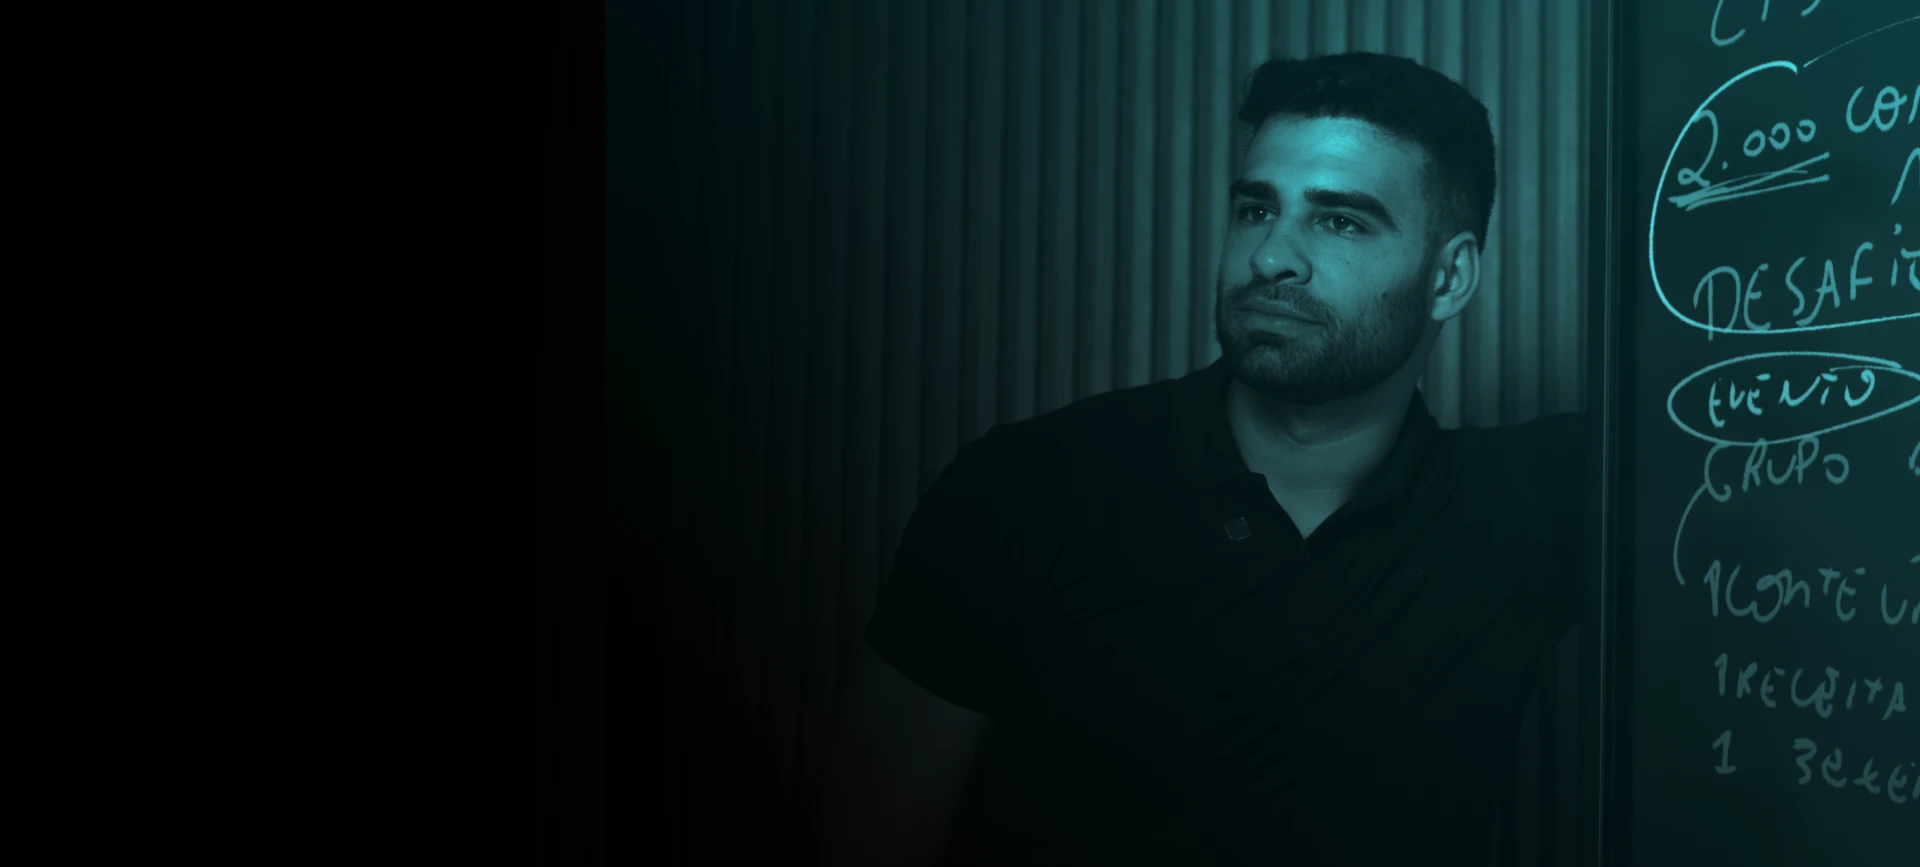
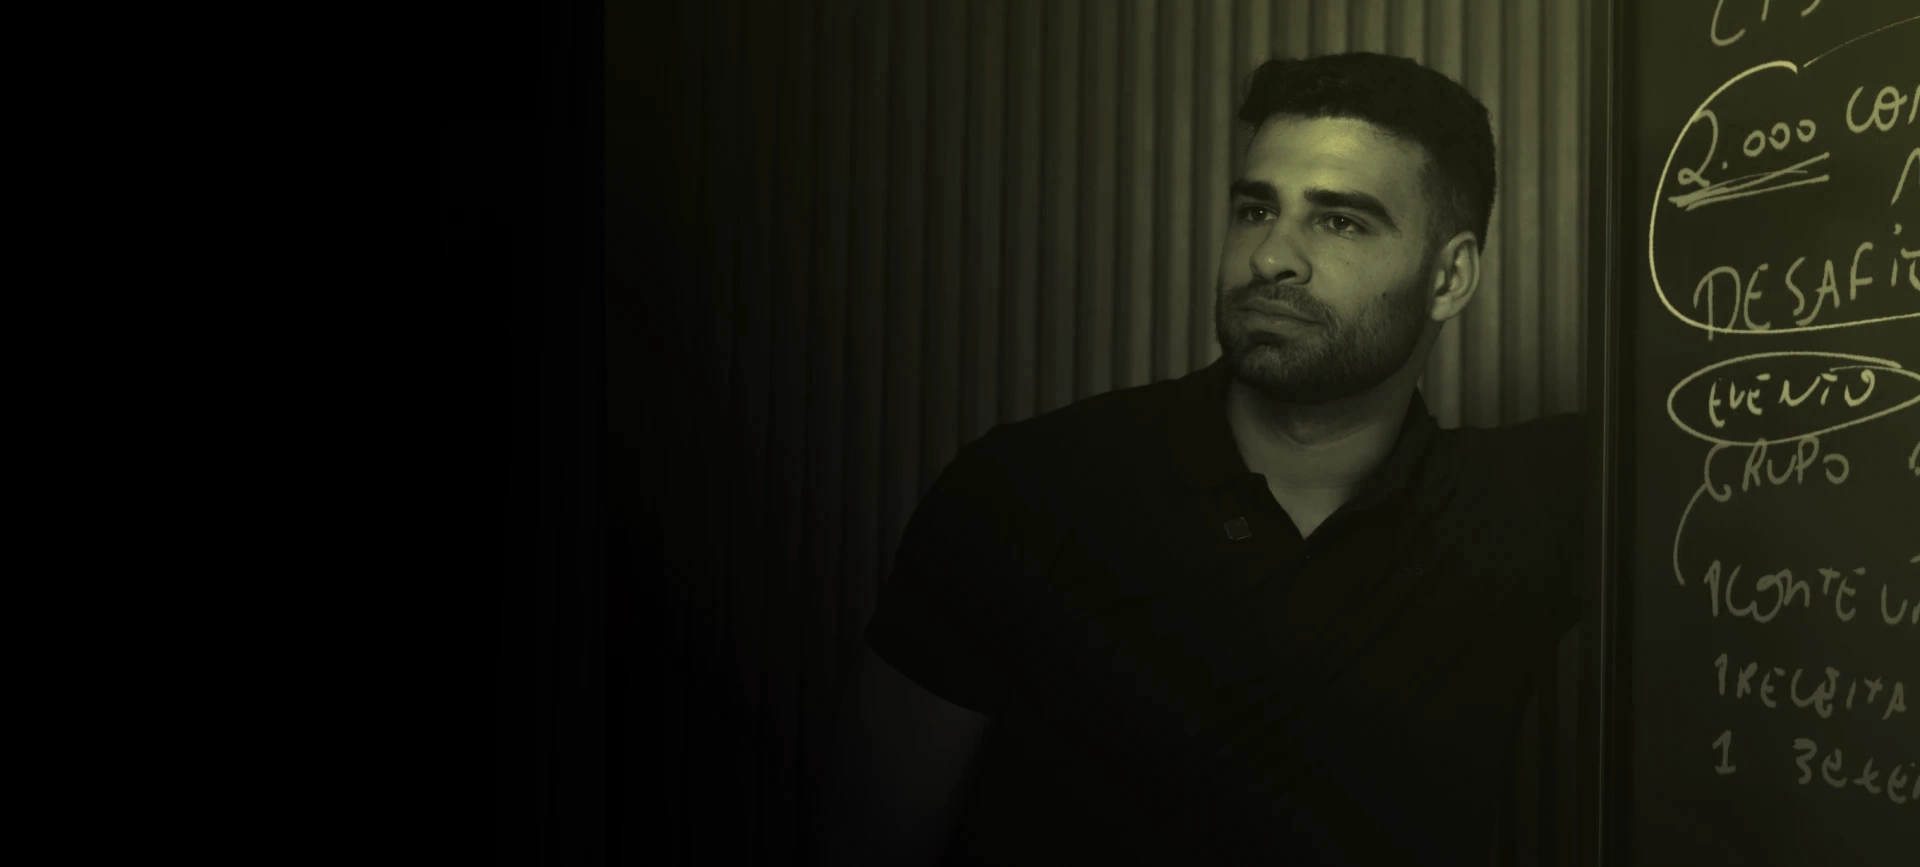
subindo mais coisa

Changed region(s): [[0.5312, 0.0, 1.0, 0.7163], [0.9062, 0.7474, 1.0, 0.9343], [0.625, 0.4671, 0.7188, 0.6228]]

diff --git a/index.html b/index.html
@@ -196,11 +196,9 @@
                         <div class="elementor-image-box-wrapper">
                             <div class="elementor-image-box-content">
                                 <h3 class="elementor-image-box-title">
-                                    <deg2>4 horas!</deg2> É somente esse tempo que eu preciso para te entregar meu plano
-                                    e te mostrar…
+                                    <deg2>Avance agora!</deg2> Vamos apresentar tudo sobre a alta performance
                                 </h3>
-                                <p class="elementor-image-box-description">O <deg2>sistema de 03 etapas</deg2> que eu
-                                    aplicaria para levantar 10 mil reais ainda esse mês.</p>
+                                <p class="elementor-image-box-description">A alta performance é uma <deg2>ferramenta que todos podemos atingir</deg2>, mas você sabe como?</p>
                             </div>
                         </div>
                     </div>
@@ -210,9 +208,7 @@
                     <div class="elementor-widget-container">
                         <div class="elementor-image-box-wrapper">
                             <div class="elementor-image-box-content">
-                                <p class="elementor-image-box-description">Se você é uma pessoa que fatura menos de
-                                    R$10.000 por mês, essa página apareceu para você no momento certo e eu vou te
-                                    explicar o porquê.&nbsp;
+                                <p class="elementor-image-box-description">Descubra como você pode atingir o próximo seu nível naquilo que você quiser ser o melhor, apenas conseguindo o conteúdo necessário para ser alguém de alta performance
                                     <br><br>
                                     A maioria dos brasileiros não vive a vida que gostaria.&nbsp;
                                     <br><br>
@@ -400,8 +396,7 @@
                     <div class="elementor-widget-container">
                         <div class="elementor-image-box-wrapper">
                             <div class="elementor-image-box-content">
-                                <h3 class="elementor-image-box-title">Aqui está o que você vai aprender durante a
-                                    masterclass <deg2>Start Digital:</deg2>
+                                <h3 class="elementor-image-box-title">Aqui está o que você vai aprender adquirindo o pacote completo da <deg2>Alta Performance:</deg2>
                                 </h3>
                             </div>
                         </div>
@@ -432,7 +427,7 @@
                                     </div>
                                     <div class="elementor-icon-box-content">
                                         <p class="elementor-icon-box-description">
-                                            Como iniciar no mercado <deg2>mais promissor</deg2> de todos.
+                                            Como performar em <deg2>qualquer área</deg2> da sua vida.
                                         </p>
                                     </div>
                                 </div>
@@ -465,7 +460,7 @@
                                     </div>
                                     <div class="elementor-icon-box-content">
                                         <p class="elementor-icon-box-description">
-                                            Quais são as estratégias que eu utilizaria para <deg2>levantar pelo menos R$ 10.000 no mês.</deg2>
+                                            Aprenda a definir metas e objetivos <deg2>garantindo sucesso em todos eles</deg2>
                                         </p>
                                     </div>
                                 </div>
@@ -498,8 +493,7 @@
                                     </div>
                                     <div class="elementor-icon-box-content">
                                         <p class="elementor-icon-box-description">
-                                            Como aplicar isso todos os meses do ano para <deg2>ter uma renda que venha
-                                                100% do mercado digital.</deg2>
+                                            Desenvolvimento do seu Networking e habilidades de Liderença <deg2>tenha o poder da influência</deg2>
                                         </p>
                                     </div>
                                 </div>
@@ -712,92 +706,7 @@
                 </div>
             </div>
         </div>
-        <div class="elementor-element elementor-element-ffdc160 e-flex e-con-boxed e-con e-parent" data-id="ffdc160"
-            data-element_type="container" data-settings="{&quot;background_background&quot;:&quot;classic&quot;}">
-            <div class="e-con-inner">
-                <div class="elementor-element elementor-element-1af5677 e-con-full e-flex e-con e-child"
-                    data-id="1af5677" data-element_type="container"
-                    data-settings="{&quot;background_background&quot;:&quot;gradient&quot;}">
-                    <div class="elementor-element elementor-element-dcaa2d3 elementor-widget elementor-widget-heading"
-                        data-id="dcaa2d3" data-element_type="widget" data-widget_type="heading.default">
-                        <div class="elementor-widget-container">
-                            <h2 class="elementor-heading-title elementor-size-default">DESCONTO ESPECIAL</h2>
-                        </div>
-                    </div>
-                    <div class="elementor-element elementor-element-e81df89 elementor-widget__width-inherit elementor-position-top elementor-widget elementor-widget-image-box"
-                        data-id="e81df89" data-element_type="widget" data-widget_type="image-box.default">
-                        <div class="elementor-widget-container">
-                            <div class="elementor-image-box-wrapper">
-                                <figure class="elementor-image-box-img"><img fetchpriority="high" decoding="async"
-                                        width="599" height="148" src="assets/images_elements/logostardigital_1.png"
-                                        class="attachment-full size-full wp-image-10379" alt=""
-                                        srcset="assets/images_elements/logostardigital_1.png 599w, assets/images_elements/logostardigital_1-300x74.png 300w"
-                                        sizes="(max-width: 599px) 100vw, 599px"></figure>
-                            </div>
-                        </div>
-                    </div>
-                    <div class="elementor-element elementor-element-91721ce elementor-widget__width-inherit elementor-widget elementor-widget-image-box"
-                        data-id="91721ce" data-element_type="widget" data-widget_type="image-box.default">
-                        <div class="elementor-widget-container">
-                            <div class="elementor-image-box-wrapper">
-                                <div class="elementor-image-box-content">
-                                    <h3 class="elementor-image-box-title">Adquira o seu ingresso para o Start Digital
-                                        agora e ative o <deg2>DESCONTO ESPECIAL:</deg2>
-                                    </h3>
-                                </div>
-                            </div>
-                        </div>
-                    </div>
-                    <div class="elementor-element elementor-element-f934d5e elementor-widget__width-inherit elementor-widget elementor-widget-image-box"
-                        data-id="f934d5e" data-element_type="widget" data-widget_type="image-box.default">
-                        <div class="elementor-widget-container">
-                            <div class="elementor-image-box-wrapper">
-                                <div class="elementor-image-box-content">
-                                    <h3 class="elementor-image-box-title">DE <riscado>R$497,00</riscado> POR:</h3>
-                                    <p class="elementor-image-box-description"><small>11x </small>
-                                        <deg2>R$ 5,06</deg2>
-                                    </p>
-                                </div>
-                            </div>
-                        </div>
-                    </div>
-                    <div class="elementor-element elementor-element-8d3b6a4 elementor-widget__width-inherit elementor-widget elementor-widget-image-box"
-                        data-id="8d3b6a4" data-element_type="widget" data-widget_type="image-box.default">
-                        <div class="elementor-widget-container">
-                            <div class="elementor-image-box-wrapper">
-                                <div class="elementor-image-box-content">
-                                    <h3 class="elementor-image-box-title">Adquira o seu ingresso para o Start Digital
-                                        agora e ative o <deg2>DESCONTO ESPECIAL:</deg2>
-                                    </h3>
-                                    <p class="elementor-image-box-description">Basta clicar no botão abaixo e reservar
-                                        uma das <span style="color:#FF0000">57 vagas restantes:</span></p>
-                                </div>
-                            </div>
-                        </div>
-                    </div>
-                    <div class="elementor-element elementor-element-4369cfb elementor-widget elementor-widget-button"
-                        data-id="4369cfb" data-element_type="widget" data-widget_type="button.default">
-                        <div class="elementor-widget-container">
-                            <div class="elementor-button-wrapper">
-                                <a class="elementor-button elementor-button-link elementor-size-sm elementor-animation-grow"
-                                    href="https://checkout4.xgrow.com/pt/b5bb92b7-b932-4293-90c9-f4a0e13f0844/NzM4ODY=?utm_source=lp.eusoumarcospaulo.com.br&amp;sck=lp.eusoumarcospaulo.com.br">
-                                    <span class="elementor-button-content-wrapper">
-                                        <span class="elementor-button-icon">
-                                            <svg aria-hidden="true" class="e-font-icon-svg e-fas-arrow-circle-right"
-                                                viewBox="0 0 512 512" xmlns="http://www.w3.org/2000/svg">
-                                                <path
-                                                    d="M256 8c137 0 248 111 248 248S393 504 256 504 8 393 8 256 119 8 256 8zm-28.9 143.6l75.5 72.4H120c-13.3 0-24 10.7-24 24v16c0 13.3 10.7 24 24 24h182.6l-75.5 72.4c-9.7 9.3-9.9 24.8-.4 34.3l11 10.9c9.4 9.4 24.6 9.4 33.9 0L404.3 273c9.4-9.4 9.4-24.6 0-33.9L271.6 106.3c-9.4-9.4-24.6-9.4-33.9 0l-11 10.9c-9.5 9.6-9.3 25.1.4 34.4z">
-                                                </path>
-                                            </svg> </span>
-                                        <span class="elementor-button-text">SIM! QUERO GARANTIR O DESCONTO!</span>
-                                    </span>
-                                </a>
-                            </div>
-                        </div>
-                    </div>
-                </div>
-            </div>
-        </div>
+        
         <div class="elementor-element elementor-element-acd200a e-flex e-con-boxed e-con e-parent" data-id="acd200a"
             data-element_type="container" data-settings="{&quot;background_background&quot;:&quot;classic&quot;}">
             <div class="e-con-inner">
@@ -969,25 +878,7 @@
         <div class="elementor-element elementor-element-21fe2bb e-flex e-con-boxed e-con e-parent" data-id="21fe2bb"
             data-element_type="container">
             <div class="e-con-inner">
-                <div class="elementor-element elementor-element-3075472 elementor-widget__width-initial elementor-widget-mobile__width-inherit elementor-countdown-labels elementor-countdown--label-block elementor-widget elementor-widget-countdown"
-                    data-id="3075472" data-element_type="widget" data-widget_type="countdown.default">
-                    <div class="elementor-widget-container">
-                        <div class="elementor-countdown-wrapper" data-date="1736733600">
-                            <div class="elementor-countdown-item"><span
-                                    class="elementor-countdown-digits elementor-countdown-days">08</span> <span
-                                    class="elementor-countdown-label">Dias</span></div>
-                            <div class="elementor-countdown-item"><span
-                                    class="elementor-countdown-digits elementor-countdown-hours">09</span> <span
-                                    class="elementor-countdown-label">Horas</span></div>
-                            <div class="elementor-countdown-item"><span
-                                    class="elementor-countdown-digits elementor-countdown-minutes">54</span> <span
-                                    class="elementor-countdown-label">Minutos</span></div>
-                            <div class="elementor-countdown-item"><span
-                                    class="elementor-countdown-digits elementor-countdown-seconds">55</span> <span
-                                    class="elementor-countdown-label">Segundos</span></div>
-                        </div>
-                    </div>
-                </div>
+
                 <div class="elementor-element elementor-element-7d67e3b elementor-widget__width-initial elementor-widget-mobile__width-inherit elementor-widget elementor-widget-image-box"
                     data-id="7d67e3b" data-element_type="widget" data-widget_type="image-box.default">
                     <div class="elementor-widget-container">

diff --git a/styles.css b/styles.css
@@ -2405,7 +2405,7 @@ button:not(:disabled) {
 
 .elementor-10357 .elementor-element.elementor-element-fb6ed83:not(.elementor-motion-effects-element-type-background) {
     background-color: transparent;
-    background-image: linear-gradient(180deg, #000 0, #00282b 100%)
+    background-image: linear-gradient(180deg, #000 0, #2c290a 100%)
 }
 
 .elementor-10357 .elementor-element.elementor-element-dce325c {
@@ -2760,7 +2760,7 @@ body:not(.rtl) .elementor-10357 .elementor-element.elementor-element-3075472 .el
 
 .elementor-10357 .elementor-element.elementor-element-72571e7:not(.elementor-motion-effects-element-type-background) {
     background-color: transparent;
-    background-image: linear-gradient(180deg, #000 0, #00282b 100%)
+    background-image: linear-gradient(180deg, #000 0, #2c290a 100%)
 }
 
 .elementor-10357 .elementor-element.elementor-element-be2ef63,
@@ -3209,7 +3209,7 @@ body:not(.rtl) .elementor-10357 .elementor-element.elementor-element-3075472 .el
 .elementor-10357 .elementor-element.elementor-element-3075472 .elementor-countdown-digits,
 deg2,
 deg3 {
-    background-image: linear-gradient(to bottom, #ffe400, #bf8802);
+    background-image: linear-gradient(to bottom, #ffef64, #bf8802);
     color: #000;
     background-clip: text;
     -webkit-background-clip: text;
@@ -3228,7 +3228,7 @@ html {
 
 deg2,
 deg3 {
-    background-image: linear-gradient(to bottom, #ffe400, #bf8802);
+    background-image: linear-gradient(to bottom, #ffef64, #bf8802);
     font-weight: 700
 }
 
